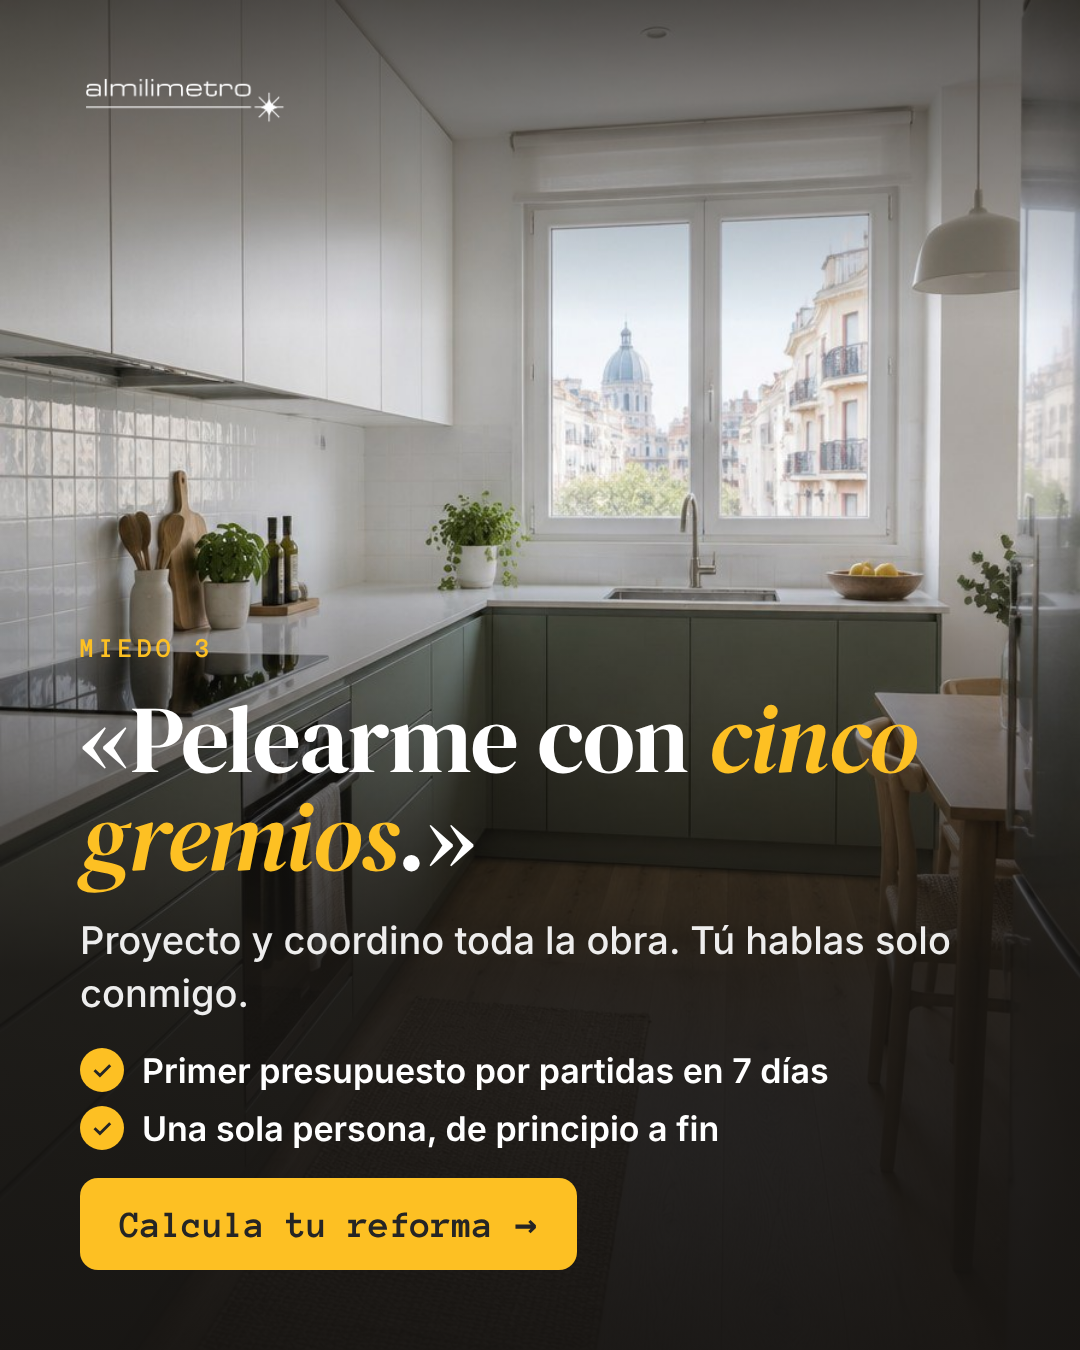
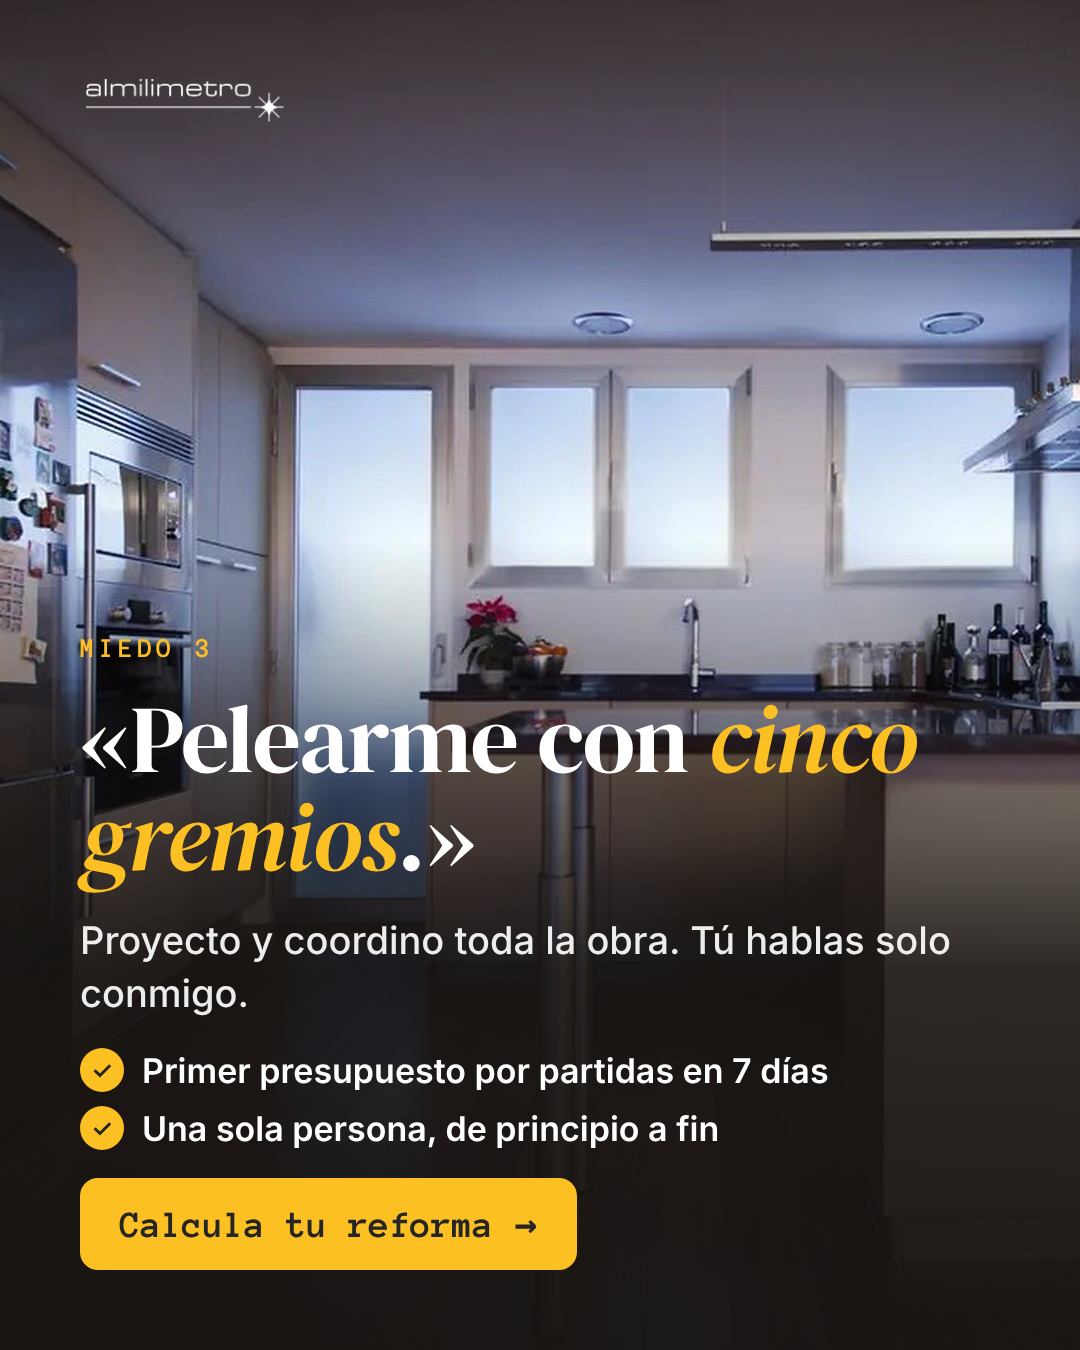
Al Milímetro: tres anuncios con fotos reales de la web de Sonia (portada A1, story A y A4) en lugar de las imágenes de IA
Claude-Session: https://claude.ai/code/session_01MkLw18JtVaTcJ5wUw6JLih

diff --git a/content/clientes/al-milimetro/claude-design/project/A-story.dc.html b/content/clientes/al-milimetro/claude-design/project/A-story.dc.html
@@ -12,7 +12,7 @@
 <style>body{margin:0}</style>
 </helmet>
 <div style="width: 1080px; height: 1920px; position: relative; overflow: hidden; background: #252525; color: #FFFFFF; font-family: Inter, sans-serif">
-<img src="/_blob/c0b9d671efd57357079c581d6f8251c1" alt="Salón reformado (imagen de referencia)" style="position: absolute; inset: 0; width: 1080px; height: 1920px; object-fit: cover">
+<img src="/_blob/76c7da8029f2e68292307e70538b2b2b" alt="Pasillo reformado con parquet, obra de Al Milímetro" style="position: absolute; inset: 0; width: 1080px; height: 1920px; object-fit: cover">
 <div style="position: absolute; inset: 0; background: linear-gradient(180deg, rgba(22,20,18,.65) 0%, rgba(22,20,18,0) 24%, rgba(22,20,18,0) 40%, rgba(22,20,18,.88) 72%, rgba(22,20,18,.96) 100%)"></div>
 <div style="position: absolute; inset: 0; padding: 250px 80px 330px; box-sizing: border-box; display: flex; flex-direction: column; justify-content: space-between">
 <img src="/_blob/36b26077a4acd3836ef6ef7447032560" alt="Al Milímetro" style="width: 210px; filter: brightness(0) invert(1)">

diff --git a/content/clientes/al-milimetro/claude-design/project/A4.dc.html b/content/clientes/al-milimetro/claude-design/project/A4.dc.html
@@ -12,7 +12,7 @@
 <style>body{margin:0}</style>
 </helmet>
 <div style="width: 1080px; height: 1350px; position: relative; overflow: hidden; background: #252525; color: #FFFFFF; font-family: Inter, sans-serif">
-<img src="/_blob/3c6a5d8ab0581951f867e5fb5cc9c1b0" alt="Cocina reformada (imagen de referencia)" style="position: absolute; inset: 0; width: 1080px; height: 1350px; object-fit: cover">
+<img src="/_blob/684b2dfcff09fb7c73dd7a9bc2669cfb" alt="Cocina reformada, obra de Al Milímetro" style="position: absolute; inset: 0; width: 1080px; height: 1350px; object-fit: cover">
 <div style="position: absolute; inset: 0; background: linear-gradient(180deg, rgba(22,20,18,.65) 0%, rgba(22,20,18,0) 24%, rgba(22,20,18,0) 40%, rgba(22,20,18,.88) 72%, rgba(22,20,18,.96) 100%)"></div>
 <div style="position: absolute; inset: 0; padding: 72px 80px 80px; box-sizing: border-box; display: flex; flex-direction: column; justify-content: space-between">
 <img src="/_blob/36b26077a4acd3836ef6ef7447032560" alt="Al Milímetro" style="width: 210px; filter: brightness(0) invert(1)">

diff --git a/content/clientes/al-milimetro/claude-design/project/Main.dc.html b/content/clientes/al-milimetro/claude-design/project/Main.dc.html
@@ -12,7 +12,7 @@
 <style>body{margin:0}</style>
 </helmet>
 <div style="width: 1080px; height: 1350px; position: relative; overflow: hidden; background: #252525; color: #FFFFFF; font-family: Inter, sans-serif">
-<img src="/_blob/c0b9d671efd57357079c581d6f8251c1" alt="Salón reformado (imagen de referencia)" style="position: absolute; inset: 0; width: 1080px; height: 1350px; object-fit: cover">
+<img src="/_blob/5619559d85db1d46ab71e283dc3606b2" alt="Salón reformado, obra de Al Milímetro" style="position: absolute; inset: 0; width: 1080px; height: 1350px; object-fit: cover">
 <div style="position: absolute; inset: 0; background: linear-gradient(180deg, rgba(22,20,18,.65) 0%, rgba(22,20,18,0) 24%, rgba(22,20,18,0) 40%, rgba(22,20,18,.88) 72%, rgba(22,20,18,.96) 100%)"></div>
 <div style="position: absolute; inset: 0; padding: 72px 80px 80px; box-sizing: border-box; display: flex; flex-direction: column; justify-content: space-between">
 <img src="/_blob/36b26077a4acd3836ef6ef7447032560" alt="Al Milímetro" style="width: 210px; filter: brightness(0) invert(1)">
